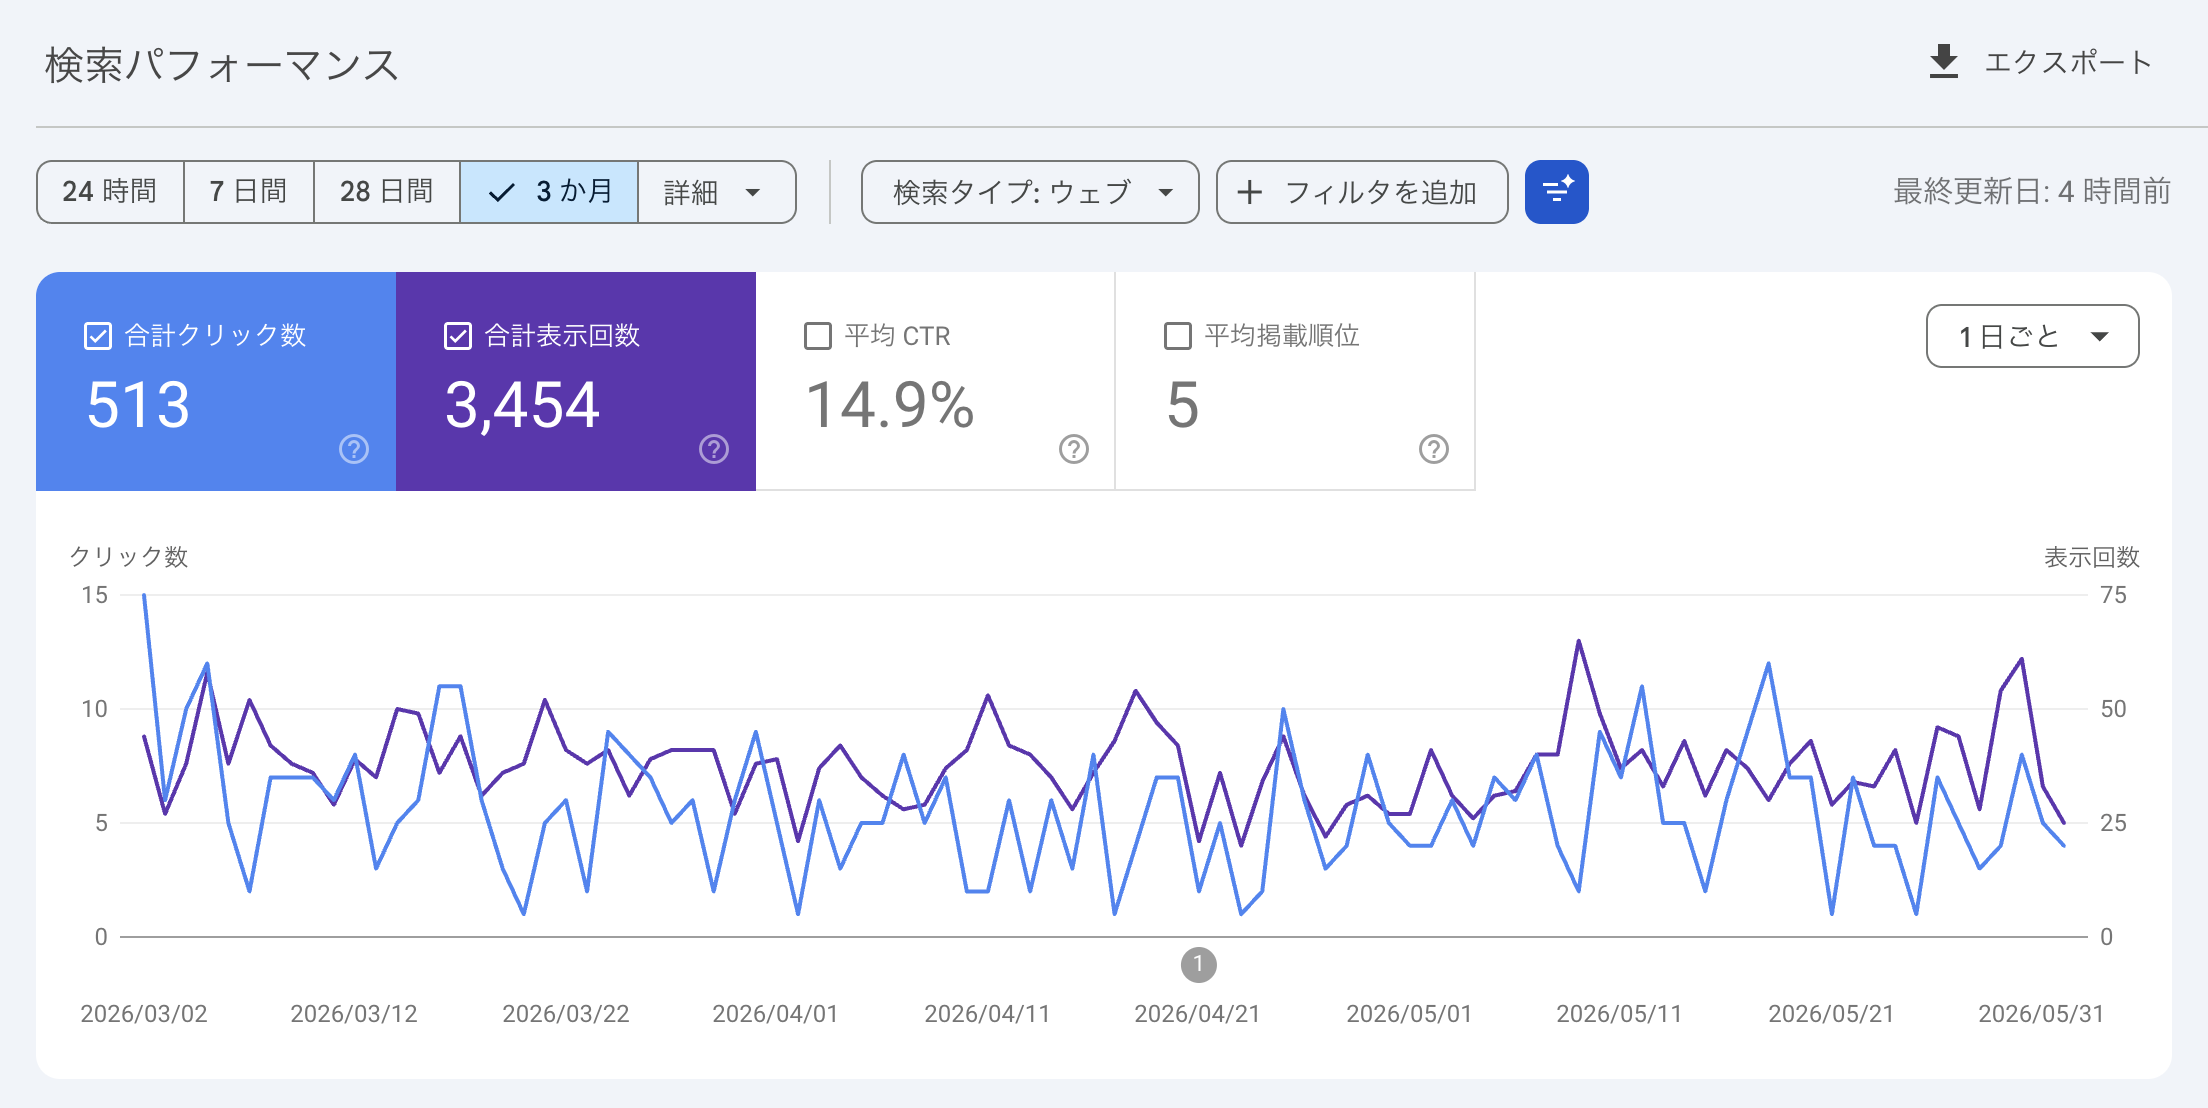
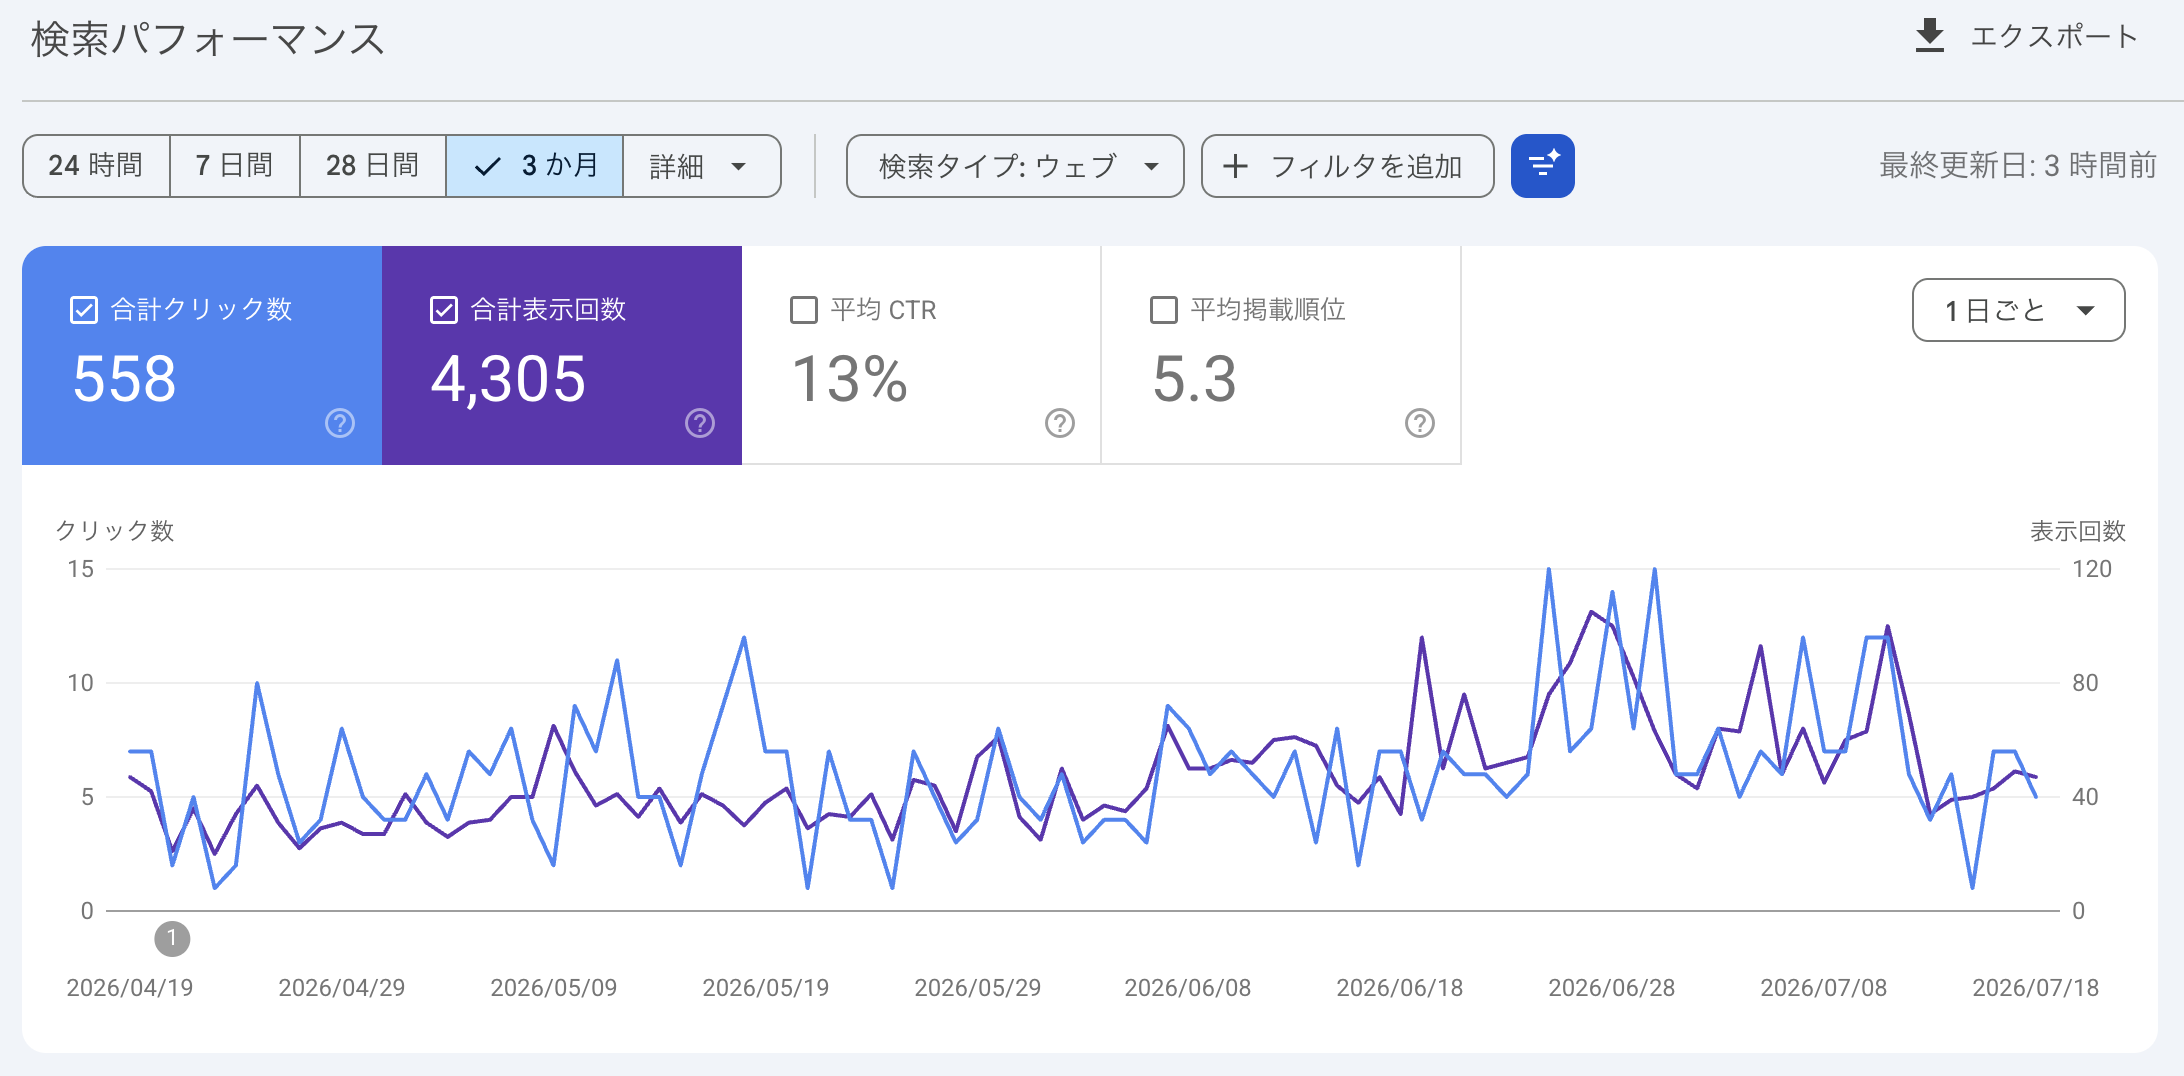
update: readme内の成果を2026年7月のものに更新。

diff --git a/README.md b/README.md
@@ -315,7 +315,7 @@ GitHub Pages側の設定やDNS設定を何度も見直し、
 - 実際にスクールの公式HPとして公開・運営をしている
 - スクールの情報発信基盤として利用中
 - 公開後もアクセス解析を行いながら保守・改善を続けている
-- 月平均で表示回数約1100回、クリック数約170回、クリック率約15%を達成している。（2026年6月現在から直近3ヶ月）
+- 月平均で表示回数約1400回、クリック数約180回、クリック率約15%を達成している。（2026年7月現在から直近3ヶ月）
 
 ![](/images/readme-img2.png)
 
